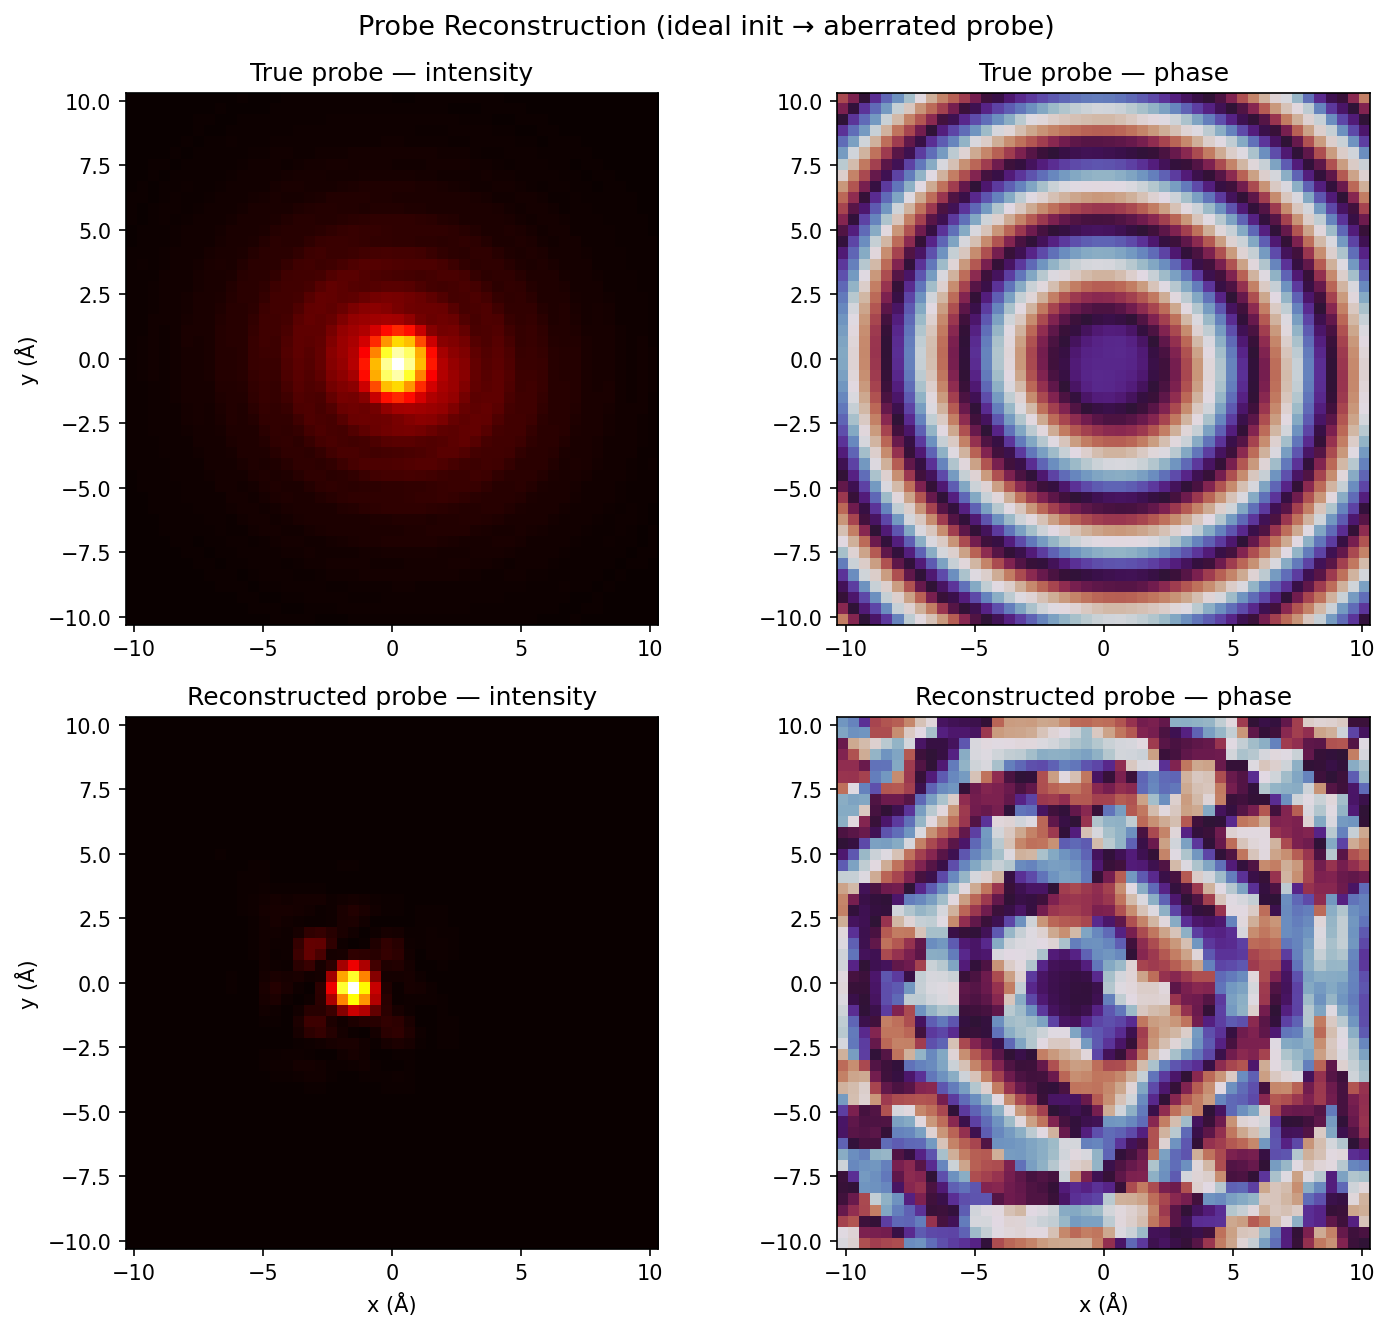
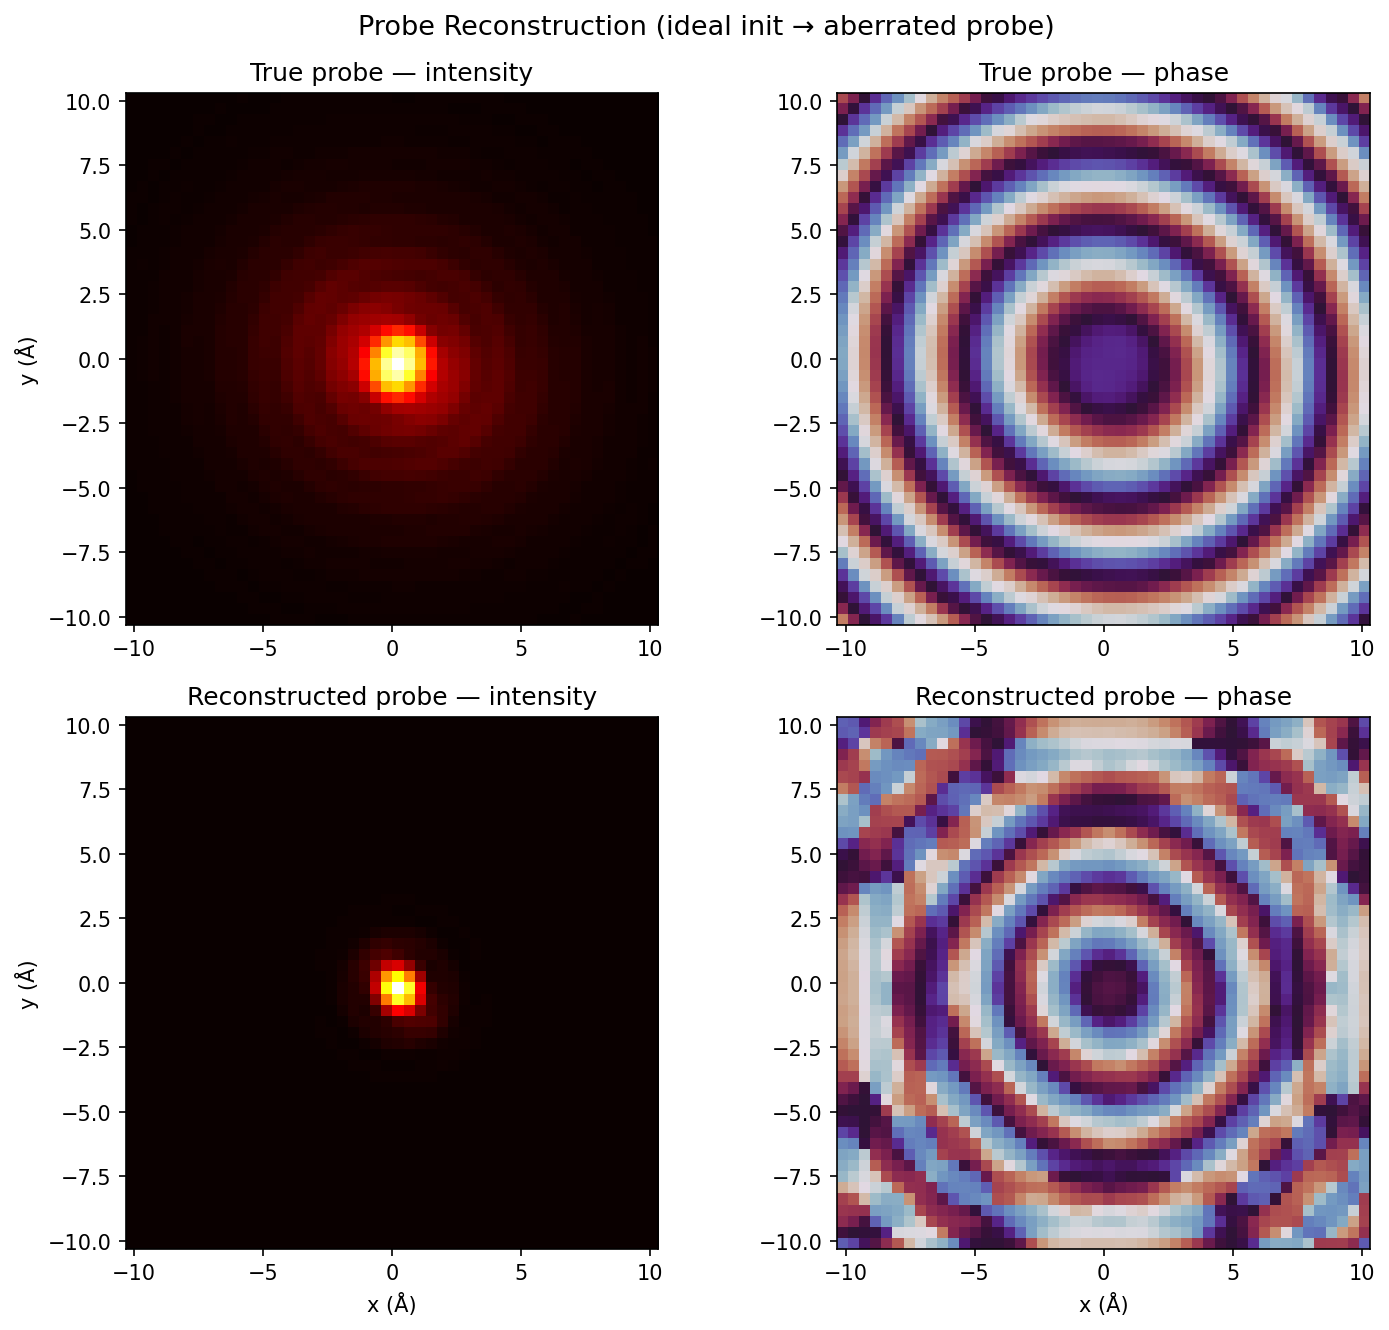
Add probe_phase='parameterized' option (Krivanek aberration model)
multislice_ePIE now accepts probe_phase ∈ {'free', 'parameterized'}.

Default 'free' is unchanged: F(probe) = template · exp(iφ(k)) with φ a
free per-k phase (~hundreds of DoF), constrained only by amplitude
lock + phase-ramp removal each iter.

New 'parameterized' mode runs free-phase ePIE to convergence (best
data fit), then snaps the converged probe to a 12-coefficient Krivanek
polynomial:

    χ(k, θ) =  C1·ρ²
            +  A1·ρ²·cos(2θ-2φ_A1)        (cos/sin pair)
            +  B2·ρ³·cos(θ-φ_B2)           (cos/sin pair)
            +  A2·ρ³·cos(3θ-3φ_A2)         (cos/sin pair)
            +  C3·ρ⁴
            +  S3·ρ⁴·cos(2θ-2φ_S3)         (cos/sin pair)
            +  A3·ρ⁴·cos(4θ-4φ_A3)         (cos/sin pair)

with ρ = k/k_aperture (Krivanek convention; not orthogonal Zernikes).

Implementation:
- _krivanek_basis_at builds the 12-column basis at in-aperture k-pixels.
- _project_probe_to_krivanek 2D-unwraps the in-aperture phase
  (skimage Goldstein), then LSQ-fits the basis. A temporary constant
  column is added to absorb the global 2π·N offset that unwrap_phase
  picks arbitrarily — without it, c1 and c3 grow huge to fake the
  constant via cancelling ρ²/ρ⁴ terms, and the recovered coefficients
  become uninterpretable.
- The snap happens once after the iteration loop (not per-iter).
  Per-iter snapping was tried but stalls: per-position ePIE updates
  are mostly orthogonal to the 12-dim subspace, so the projection
  cancels them and c stops refining.
[…]

Changed region(s): [[0.5882, 0.5241, 0.9906, 0.9556], [0.1857, 0.6782, 0.3405, 0.8015]]

diff --git a/microptycho.py b/microptycho.py
@@ -195,6 +195,91 @@ class MicroPtycho:
         F_new = aperture * (F / safe_mag)
         return np.fft.ifft2(F_new)
 
+    # Order kept as documented in `_krivanek_basis_at`. The wave-aberration
+    # uses Krivanek/Haider notation with the radial coordinate normalized by
+    # the aperture radius, so each coefficient is "phase contributed at the
+    # aperture edge" in radians.
+    KRIVANEK_LABELS = (
+        'C1',                # defocus, ρ²
+        'A1_cos', 'A1_sin',  # 2-fold astig, ρ²·cos2θ / ρ²·sin2θ
+        'B2_cos', 'B2_sin',  # axial coma, ρ³·cosθ / ρ³·sinθ
+        'A2_cos', 'A2_sin',  # 3-fold astig, ρ³·cos3θ / ρ³·sin3θ
+        'C3',                # spherical, ρ⁴
+        'S3_cos', 'S3_sin',  # axial star, ρ⁴·cos2θ / ρ⁴·sin2θ
+        'A3_cos', 'A3_sin',  # 4-fold astig, ρ⁴·cos4θ / ρ⁴·sin4θ
+    )
+
+    @staticmethod
+    def _krivanek_basis_at(kx, ky, kmax, mask):
+        """Krivanek aberration basis evaluated at the in-aperture k-points.
+
+        Returns a (n_in_aperture, 12) matrix B such that χ(k) ≈ B @ c, with
+        c the coefficient vector (units: radians of phase at the aperture
+        edge). The radial polynomials are *monomials* in ρ = k/kmax (the
+        STEM convention), not orthogonal Zernikes — this means the columns
+        are correlated, but the coefficients map directly to physical
+        Krivanek/Haider aberrations (C1, A1, B2, A2, C3, S3, A3).
+        """
+        kx_in = kx[mask]
+        ky_in = ky[mask]
+        k = np.sqrt(kx_in**2 + ky_in**2)
+        rho = k / max(kmax, 1e-12)
+        theta = np.arctan2(ky_in, kx_in)
+        rho2, rho3, rho4 = rho**2, rho**3, rho**4
+        return np.stack([
+            rho2,
+            rho2 * np.cos(2 * theta), rho2 * np.sin(2 * theta),
+            rho3 * np.cos(theta),     rho3 * np.sin(theta),
+            rho3 * np.cos(3 * theta), rho3 * np.sin(3 * theta),
+            rho4,
+            rho4 * np.cos(2 * theta), rho4 * np.sin(2 * theta),
+            rho4 * np.cos(4 * theta), rho4 * np.sin(4 * theta),
+        ], axis=1)
+
+    @staticmethod
+    def _project_probe_to_krivanek(probe, template, basis, mask, c=None):
+        """Project a probe onto {F = template · exp(iχ), χ = basis @ c}.
+
+        Strong aberrations (e.g. Cs=1mm contributing ~6 rad of phase at
+        the aperture edge) wrap several times across the aperture, so a
+        naive arg() of F(probe)/template aliases. We unwrap the in-aperture
+        phase in 2D (skimage's Goldstein-style algorithm), then solve the
+        Krivanek-monomial LSQ in one shot — recovers canonical coefficients
+        to machine precision regardless of initial state.
+
+        The `c` argument is accepted for API symmetry but is no longer used;
+        the unwrap-then-LSQ path is independent of warm-start.
+
+        Returns (probe_new, c_new).
+        """
+        from skimage.restoration import unwrap_phase
+        F = np.fft.fft2(probe)
+        safe_template = np.where(np.abs(template) > 1e-20, template, 1.0)
+        # Unwrap on an fftshifted layout so the aperture is a single
+        # connected region in the centre of the array (Goldstein needs
+        # connectivity). Mask the outside so unwrap doesn't try to
+        # unwrap noise.
+        phase_full = np.angle(F / safe_template)
+        phase_shift = np.fft.fftshift(phase_full)
+        mask_shift = np.fft.fftshift(mask)
+        masked = np.ma.masked_array(phase_shift, ~mask_shift)
+        unwrapped_shift = np.asarray(unwrap_phase(masked).filled(0.0))
+        unwrapped = np.fft.ifftshift(unwrapped_shift)
+        target = unwrapped[mask]
+        # Add a temporary constant column to the basis so the LSQ can
+        # absorb the global 2π·N offset that unwrap_phase picks
+        # arbitrarily. Without this, c1 and c3 grow huge to fake a
+        # constant via cancelling ρ² and ρ⁴ terms — meaningless when
+        # interpreted as physical aberration coefficients. The constant
+        # is discarded after fitting (a global probe phase is a free
+        # gauge that doesn't affect diffraction).
+        basis_with_const = np.column_stack([basis, np.ones(basis.shape[0])])
+        c_full, *_ = np.linalg.lstsq(basis_with_const, target, rcond=None)
+        c_new = c_full[:-1]
+        F_fit = np.zeros_like(F)
+        F_fit[mask] = template[mask] * np.exp(1j * (basis @ c_new))
+        return np.fft.ifft2(F_fit), c_new
+
     @staticmethod
     def _remove_phase_ramp(field, dx, eps=1e-12):
         """Remove the best-fit linear phase ramp from a complex field.
@@ -553,6 +638,7 @@ class MicroPtycho:
                         object_phase_shrink=0.0, probe_update_clip=0.0,
                         normalize_probe=True, remove_probe_phase_ramp=True,
                         probe_fourier_support=None, probe_warmup_iters=0,
+                        probe_phase='free',
                         random_seed=None,
                         verbose=True):
         """
@@ -586,12 +672,35 @@ class MicroPtycho:
             raise ValueError("object_phase_shrink must be >= 0.")
         if probe_update_clip < 0:
             raise ValueError("probe_update_clip must be >= 0.")
+        if probe_phase not in ('free', 'parameterized'):
+            raise ValueError("probe_phase must be 'free' or 'parameterized'.")
+        if probe_phase == 'parameterized' and probe_fourier_support is None:
+            raise ValueError(
+                "probe_phase='parameterized' requires probe_fourier_support "
+                "(the |F(probe)| amplitude template) — the parametric fit "
+                "constrains only the in-aperture phase."
+            )
         if beta_0 is None:
             beta_0 = alpha_0
         positions = np.arange(len(intensity))
         rng = np.random.default_rng(random_seed)
         residuals = []
         probe_KX, probe_KY = self.make_k_grid(probe.shape, dx)
+        # Krivanek aberration basis (built once; mask + basis matrix don't
+        # change between iters). The fit coefficients carry across iters so
+        # each projection stays in the unwrapped basin (see
+        # _project_probe_to_krivanek).
+        krivanek_basis = None
+        krivanek_mask = None
+        krivanek_coefs = None
+        if probe_phase == 'parameterized':
+            krivanek_mask = probe_fourier_support > (probe_fourier_support.max() * 1e-6)
+            k_in = np.sqrt(probe_KX[krivanek_mask]**2 + probe_KY[krivanek_mask]**2)
+            kmax_eff = float(k_in.max()) if k_in.size else 1.0
+            krivanek_basis = self._krivanek_basis_at(
+                probe_KX, probe_KY, kmax_eff, krivanek_mask
+            )
+            krivanek_coefs = np.zeros(krivanek_basis.shape[1])
         eps = 1e-12
         # See ePIE: target probe energy is derived from measured data via
         # Parseval, not from the (possibly noisy) initial probe.
@@ -676,13 +785,9 @@ class MicroPtycho:
                     # mixes forward and backward models and slows convergence.
                     psi_corrected = self._inverse_transmission(patch, eps) * psi_corrected
 
-            # Fourier-aperture projection: the ideal aberrated probe has
-            # F(probe) = aperture · exp(-iχ), so |F(probe)| equals the
-            # aperture (0 or 1) and only the phase χ is free. Enforcing
-            # both amplitude AND support after every probe update kills
-            # high-k noise and forces the probe to be a valid aperture-
-            # constrained aberrated probe — which is the dominant failure
-            # mode for sparse samples.
+            # Free-phase amplitude lock per iter — F(probe) = template ·
+            # exp(iφ(k)), φ unconstrained per k-bin. The parametric
+            # snap (if requested) happens once after the loop, see below.
             if beta != 0 and probe_fourier_support is not None:
                 probe = self._project_probe_to_aperture(probe, probe_fourier_support)
 
@@ -712,6 +817,24 @@ class MicroPtycho:
             residuals.append(iter_residual)
             if verbose:
                 print(f"Iteration {i + 1}/{n_iter} completed. Residual: {iter_residual:.6e}")
+
+        # Post-hoc parametric snap. Free-phase ePIE converges to the
+        # best per-k probe (best residual). The Krivanek snap then fits
+        # those ~hundreds of free phases to 12 physical coefficients,
+        # denoising the probe at the cost of a slightly higher
+        # data-fit residual. The trade-off is bias-vs-variance: snap
+        # gives a probe that's a *valid* aberrated probe by
+        # construction, suitable for reporting microscope aberrations
+        # or feeding into downstream simulations.
+        if probe_phase == 'parameterized':
+            probe, krivanek_coefs = self._project_probe_to_krivanek(
+                probe, probe_fourier_support,
+                krivanek_basis, krivanek_mask,
+            )
+            if verbose:
+                print("Fitted Krivanek aberration coefficients (rad at aperture edge):")
+                for label, value in zip(self.KRIVANEK_LABELS, krivanek_coefs):
+                    print(f"  {label:>7s} = {value:+.4f}")
 
         return probe, O, residuals
 

diff --git a/tutorial.py b/tutorial.py
@@ -522,6 +522,16 @@ probe_recon, O_recon, residuals = mp.multislice_ePIE(
     probe_fourier_support=probe_fourier_support,
     probe_warmup_iters=0,                  # aperture lock makes warmup
                                            #   unnecessary
+    probe_phase='parameterized',           # post-hoc fit the converged
+                                           #   |F(probe)| phase to a 12-
+                                           #   coefficient Krivanek
+                                           #   expansion (C1, A1, B2, A2,
+                                           #   C3, S3, A3). Replaces
+                                           #   ~hundreds of free per-k
+                                           #   phases with a denoised,
+                                           #   physically-valid aberrated
+                                           #   probe and prints the fitted
+                                           #   coefficients.
     random_seed=7,
 )
 
